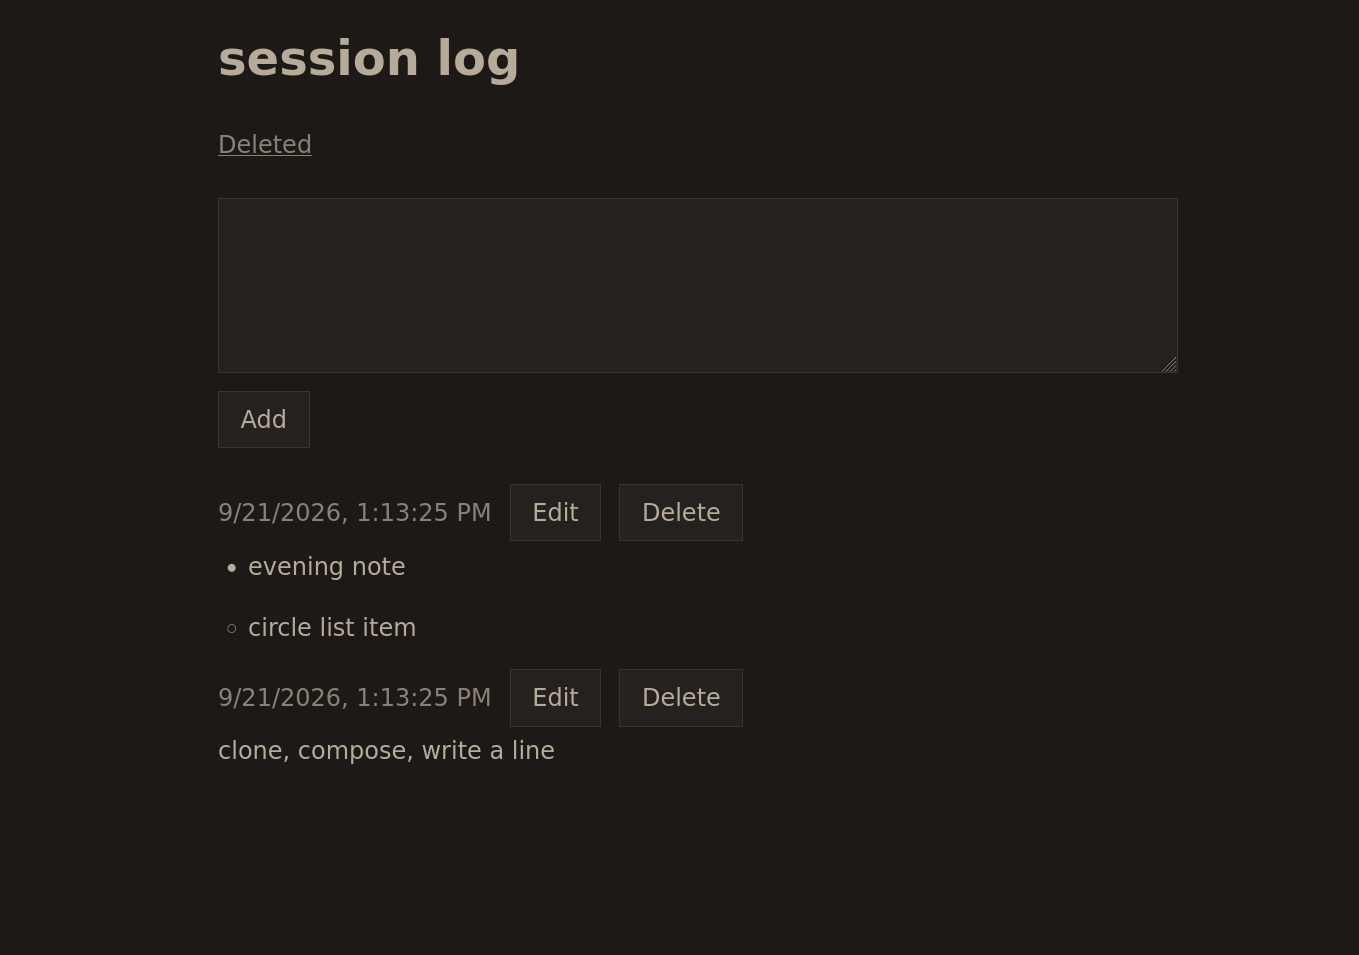
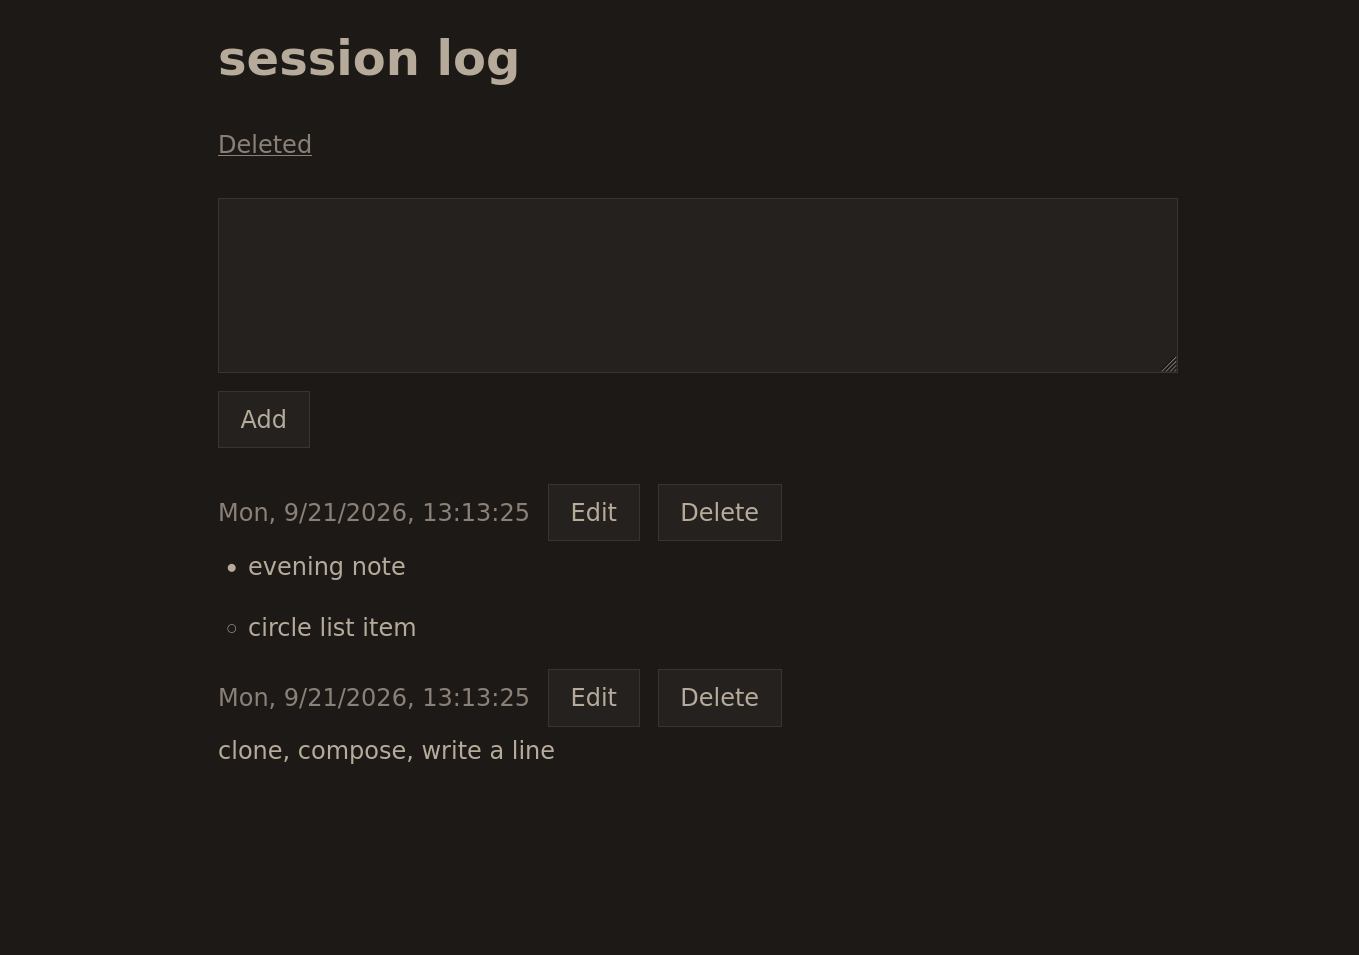
Show entry times in 24-hour format.

Changed region(s): [[0.1545, 0.6984, 0.5563, 0.7592], [0.1545, 0.5162, 0.5563, 0.5466]]

diff --git a/web/src/App.tsx b/web/src/App.tsx
@@ -73,9 +73,10 @@ function formatWhen(iso: string): string {
     year: "numeric",
     month: "numeric",
     day: "numeric",
-    hour: "numeric",
+    hour: "2-digit",
     minute: "2-digit",
     second: "2-digit",
+    hour12: false,
   });
 }
 

diff --git a/SPEC.md b/SPEC.md
@@ -116,7 +116,7 @@ Two URLs, one `App.tsx`, no React Router. nginx `try_files` serves `index.html` 
 - `/deleted` — `GET /api/entries/deleted`, Restore → `POST /api/entries/{id}/restore`, Purge → `DELETE /api/entries/{id}/purge` (confirm). Empty: `No deleted entries.`
 - A single link each way. No menu yet.
 - Submit → `POST /api/entries`, then reload the list. Desktop: Enter submits, Shift+Enter newline. Phone (coarse pointer): Enter is a newline; submit with Add / Save. If that newline is on a line that already starts with `- ` or `* `, the next line starts with the same marker; an empty marker line leaves the list.
-- List: `created_at` (local date/time with weekday) and `body` for each entry from `GET /api/entries`
+- List: `created_at` (local date/time with weekday, 24-hour clock) and `body` for each entry from `GET /api/entries`
 - Empty: `No entries yet.`
 - Delete on a row → confirm “Are you sure?” → `DELETE /api/entries/{id}`, then reload the list
 - Edit on a row → textarea + Save / Cancel → `PUT /api/entries/{id}`, then reload the list

diff --git a/TICKETS.md b/TICKETS.md
@@ -50,3 +50,4 @@ Exactly one item in **Now**, with what / not. **Next** is the queue. **Later** i
 - Pretty LAN name `session-log.local` (Avahi, this machine). Not: app code, README, or router DNS
 - Autostart live stack on boot (user systemd `session-log`, linger). Not: test stack, app code, or README
 - README: Linux boot unit + linger. Not: shipping the machine-local unit, test stack, or Avahi
+- 24-hour time on displayed dates. Not: timezone picker, relative time, or changing stored `created_at`
